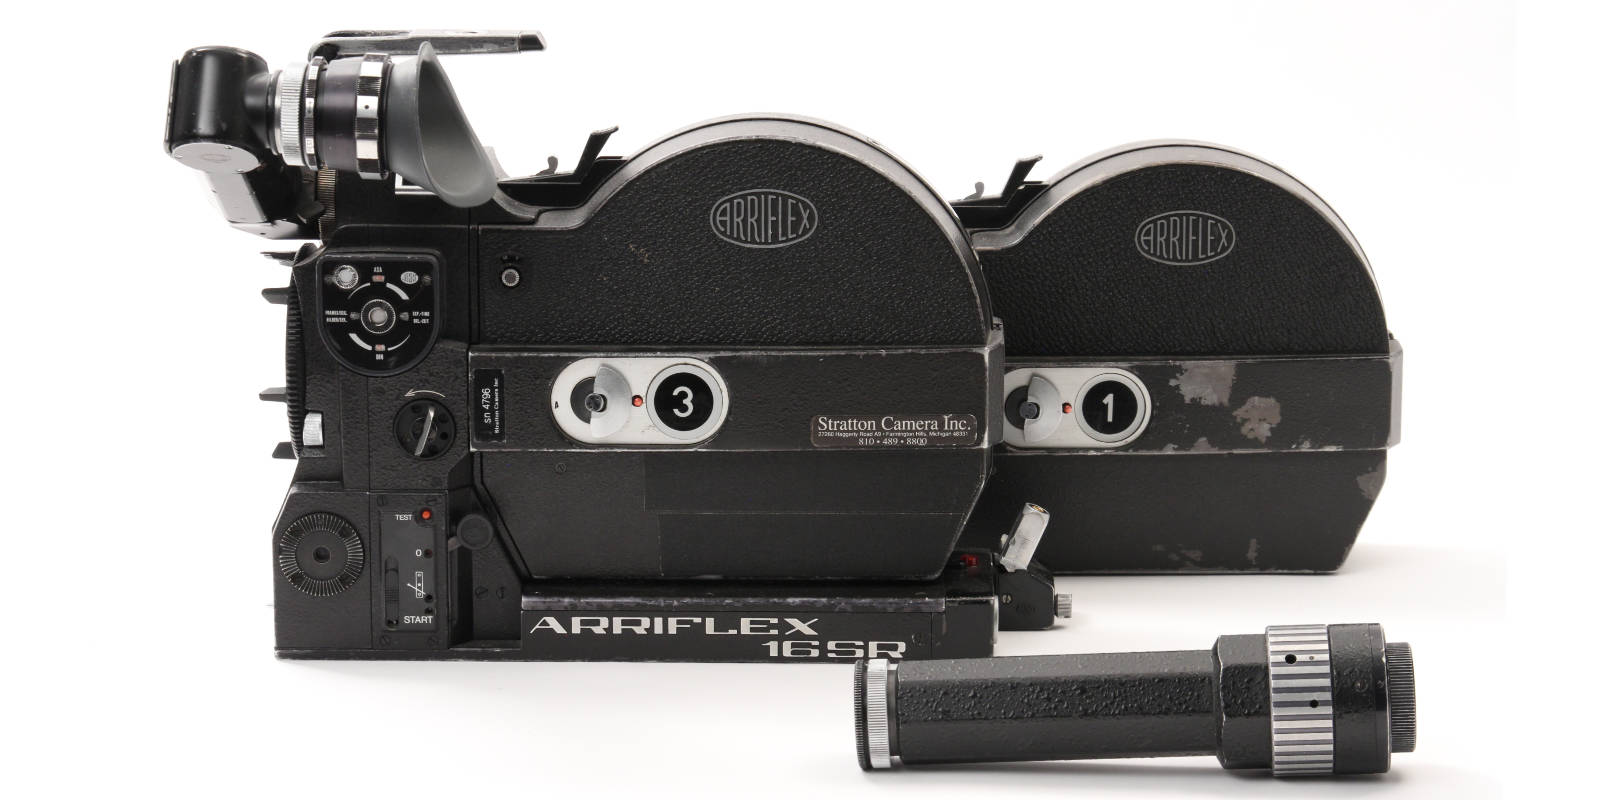
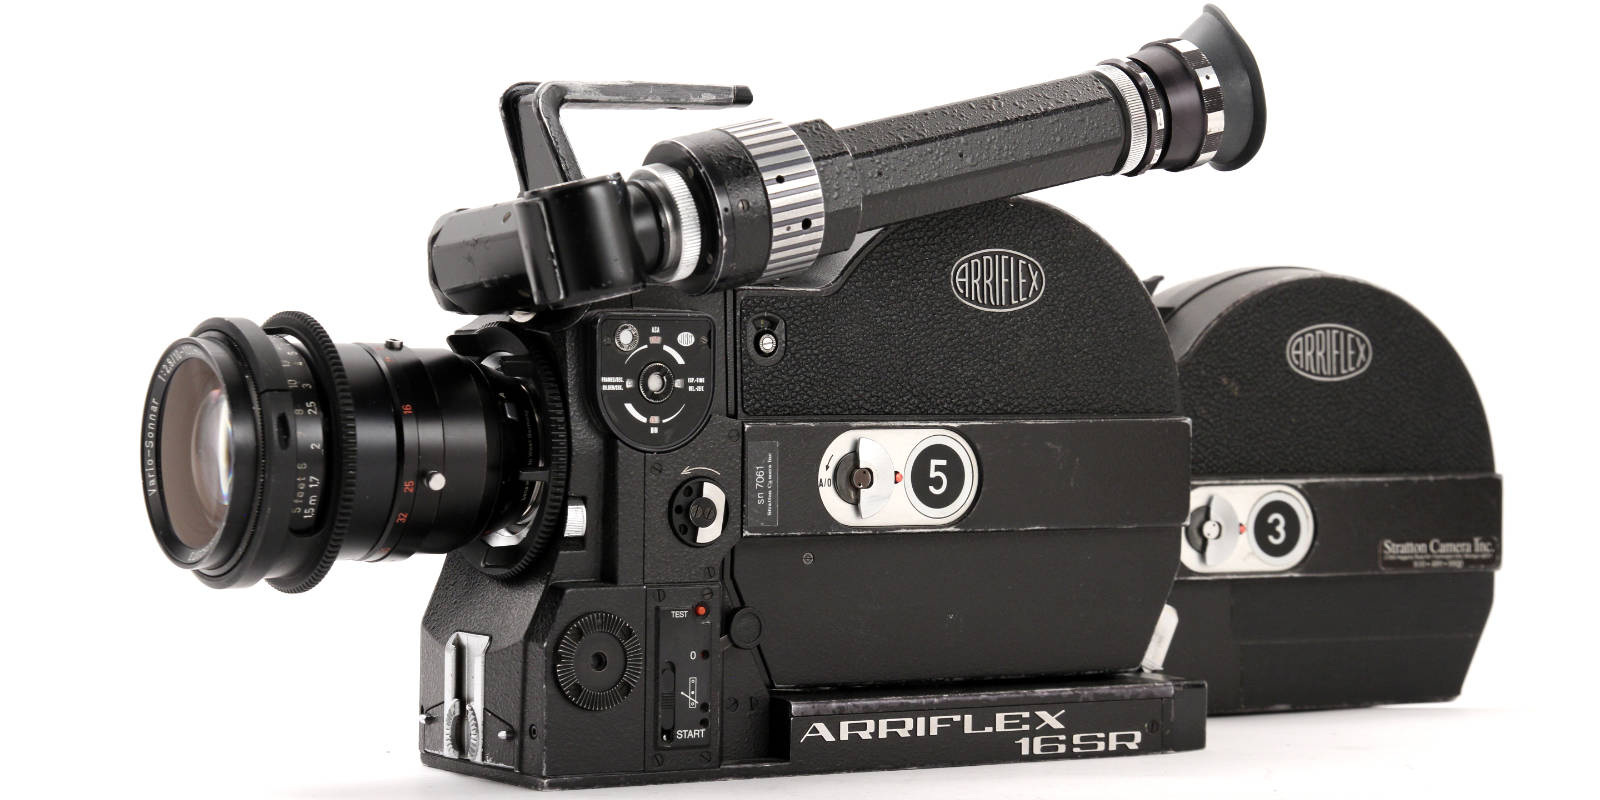
USED updates

diff --git a/usedcameras.html b/usedcameras.html
@@ -255,22 +255,28 @@
 		<article class="used-item" id="arriflex-16sr">
 			<div class="used-heading">
 				<h3>
-					Arriflex 16SR 
-				</h3>
+					Arriflex 16SR-1
+Package				</h3>
 				<div class="used-price pending">
 					 price pending
 				</div>
 			</div>
 			<div class="used-gallery">
-				<button class="used-gallery-main" type="button" aria-label="View larger photo of Arriflex 16SR"> <img src="img/used/srpackage.jpg" alt="Arriflex 16SR"> </button> 
+				<button class="used-gallery-main" type="button" aria-label="View larger photo of Arriflex 16SR 1"> <img src="img/used/srpackage.jpg" alt="Arriflex 16SR 1"> </button> 
 				<div class="used-thumbnails">
-					<button class="used-thumbnail" type="button" aria-label="View Arriflex 16SR photo 1"> <img src="img/used/16sr1.jpg" alt=""> </button> 
-					<button class="used-thumbnail" type="button" aria-label="View Arriflex 16SR photo 2"> <img src="img/used/srdumb.jpg" alt=""> </button> 
-					<button class="used-thumbnail" type="button" aria-label="View Arriflex 16SR photo 3"> <img src="img/used/srmeter.jpg" alt=""> </button> 
-					<button class="used-thumbnail" type="button" aria-label="View Arriflex 16SR photo 4"> <img src="img/used/srgate.jpg" alt=""> </button> 
+					<button class="used-thumbnail" type="button" aria-label="View Arriflex 16SR 1 photo 1"> <img src="img/used/srpackage.jpg" alt=""> </button> 
+					<button class="used-thumbnail" type="button" aria-label="View Arriflex 16SR 1 photo 2"> <img src="img/used/srdumb.jpg" alt=""> </button> 
+					<button class="used-thumbnail" type="button" aria-label="View Arriflex 16SR 1 photo 3"> <img src="img/used/srmeter.jpg" alt=""> </button> 
+					<button class="used-thumbnail" type="button" aria-label="View Arriflex 16SR 1 photo 4"> <img src="img/used/srgate.jpg" alt=""> </button> 
+					<button class="used-thumbnail" type="button" aria-label="View Arriflex 16SR 1 photo 5"> <img src="img/used/sr-10-100.jpg" alt=""> </button> 
+					<button class="used-thumbnail" type="button" aria-label="View Arriflex 16SR 1 photo 6"> <img src="img/used/sr-10-100vertical.jpg" alt=""> </button> 
+					<button class="used-thumbnail" type="button" aria-label="View Arriflex 16SR 1 photo 7"> <img src="img/used/sr-10-100verticalalt.jpg" alt=""> </button> 
+					<button class="used-thumbnail" type="button" aria-label="View Arriflex 16SR 1 photo 8"> <img src="img/used/sr-10-100mount.jpg" alt=""> </button> 
+					<button class="used-thumbnail" type="button" aria-label="View Arriflex 16SR 1 photo 9"> <img src="img/used/sr-10-100mountcu.jpg" alt=""> </button> 
 				</div>
 			</div>
 			<ul>
+				<li>Zeiss Vario-Sonnar 10-100 T3.0</li> 
 				<li>(2x) 400 ft. magazines</li>
 				<li>On Board battery adapter</li>
 				<li>Viewfinder Extension</li>

diff --git a/usedaks.html b/usedaks.html
@@ -637,8 +637,12 @@
 		</div>
 			<ul>
 				<li>(4x) DIONIC 160 Gold Mount batteries</li>
-				<li>Batteries capacity tested</li>
 				<li>TM4 4-position Gold Mount charger</li>
+				<li>Capacity tested August 2026: 86–88%</li>
+				<li>SN 0047 — 141 Wh / 88%</li>
+				<li>SN 1682 — 139 Wh / 87%</li>
+				<li>SN 1683 — 139 Wh / 87%</li>
+				<li>SN 1684 — 138 Wh / 86%</li>
 			</ul>
 			<a class="used-inquire" href="mailto:info@strattoncamera.com?subject=Used%20equipment%20inquiry%20Anton%20Bauer%20Dionic160"> Inquire about this item </a> 
 		</article>

diff --git a/sw.js b/sw.js
@@ -18,7 +18,7 @@
 ////////////////////////////////////////////////////////////////////////////////
 // VERSIONED CACHES
 ////////////////////////////////////////////////////////////////////////////////
-const SW_VERSION = 'v16.9';
+const SW_VERSION = 'v16.91';
 
 const PRECACHE = `precache-${SW_VERSION}`;
 const RUNTIME  = `runtime-${SW_VERSION}`;
